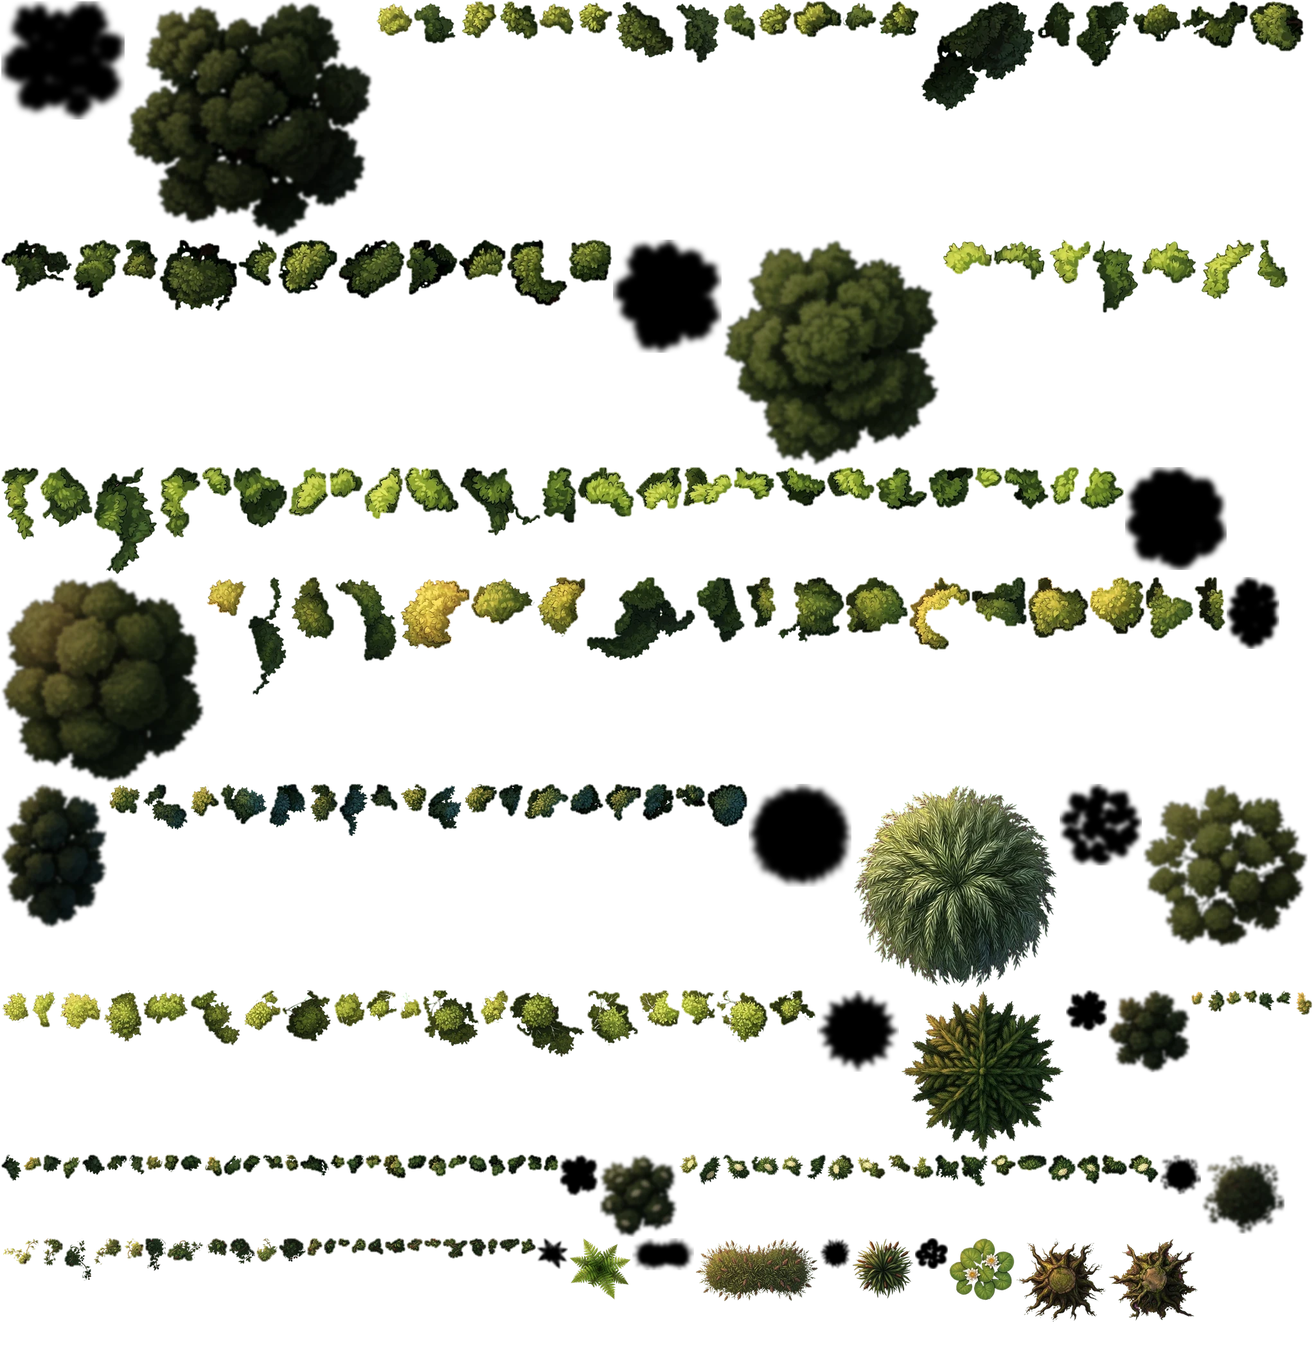
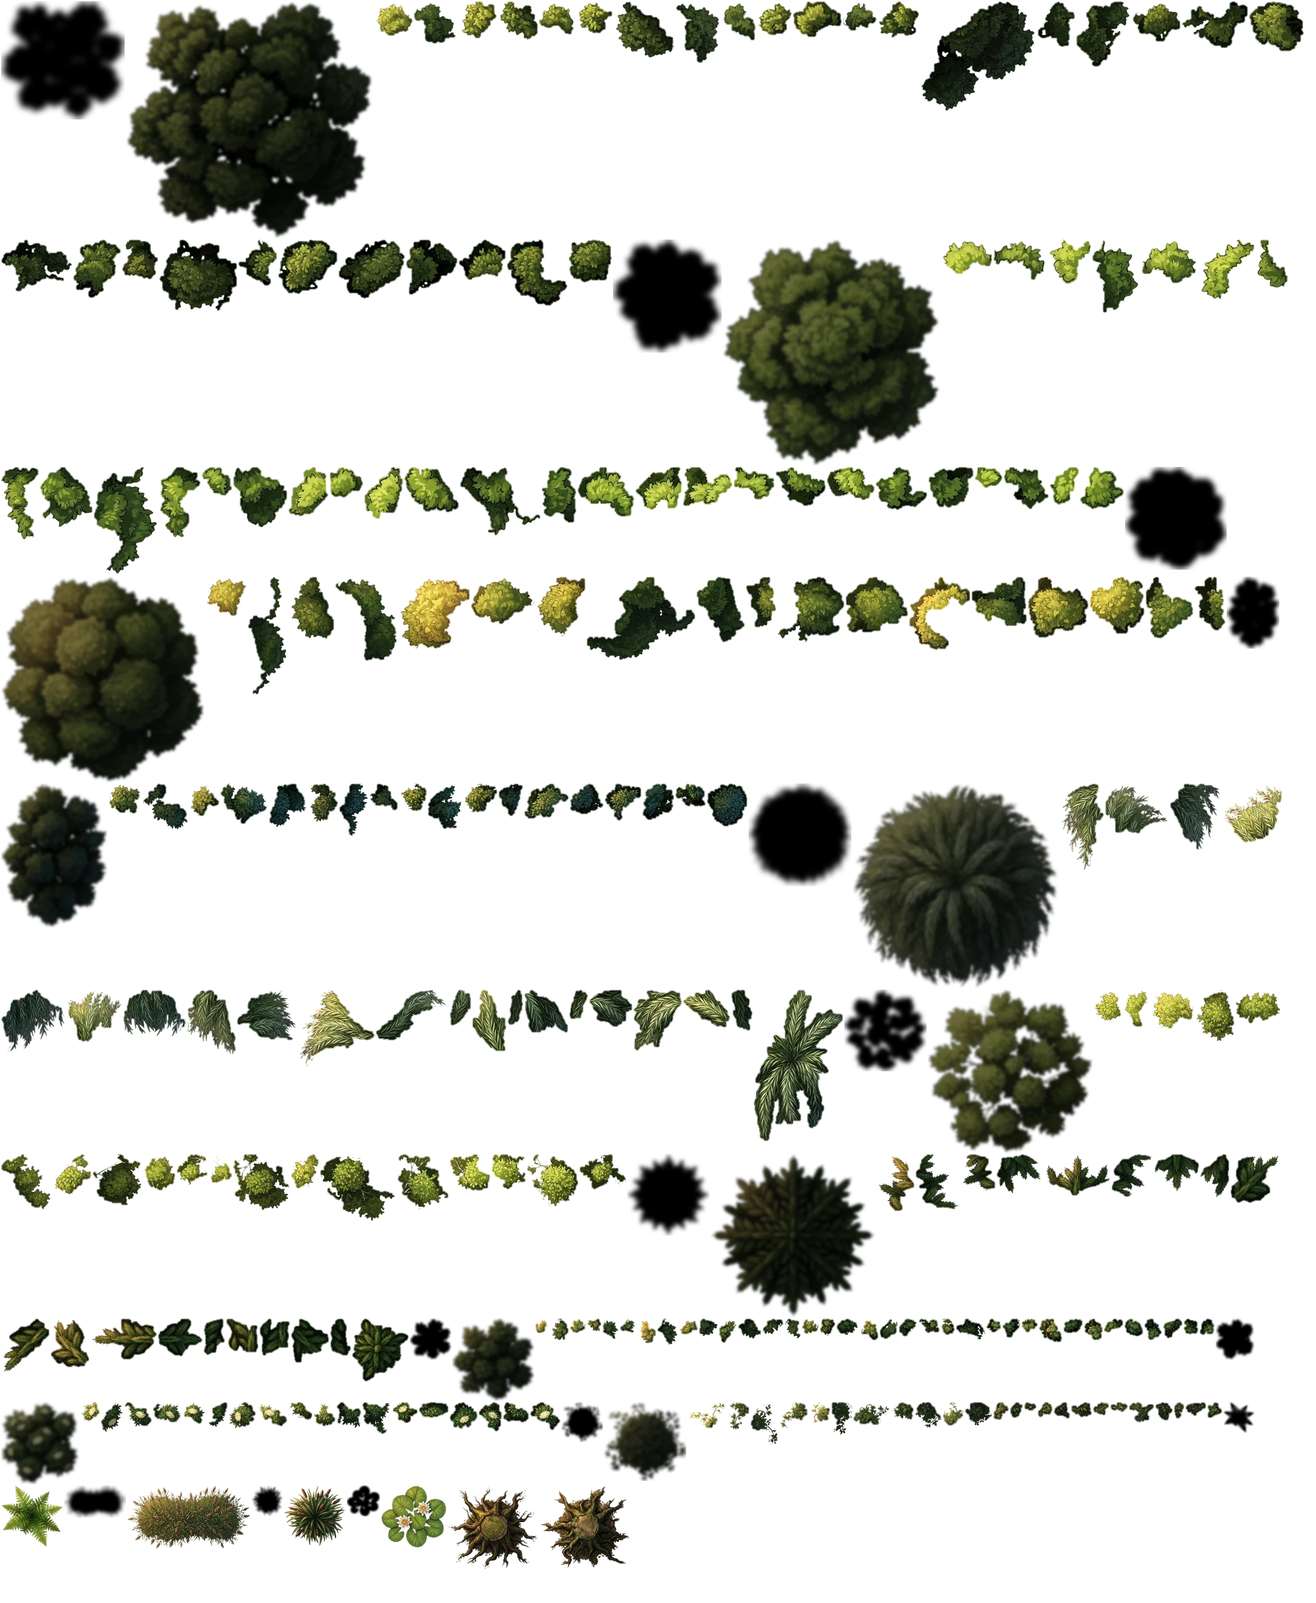
outdoor slice: rapids that visibly run (noise at a visible scale), boulder flecks instead of rings, forest as stands, roof tap, wind dial, all trees cut into clumps

diff --git a/docs/mockups/outdoor/outdoor.js b/docs/mockups/outdoor/outdoor.js
@@ -14,6 +14,7 @@ uniform vec2 u_dir;       // wind direction
 uniform float u_wind;     // base strength (0.45 breeze, 1 strong)
 uniform float u_gusts;    // 1 = gusts roll across the map
 uniform float u_cloud;    // cloud shadow strength 0..1
+uniform vec2 u_cloudOff;  // how far the clouds have drifted (integrated on the CPU)
 uniform sampler2D u_noise;
 float hash1(float n) { return fract(sin(n * 127.1) * 43758.5453); }
 float noise1(float x) { float i = floor(x), f = fract(x), u = f * f * (3.0 - 2.0 * f); return mix(hash1(i), hash1(i + 1.0), u); }
@@ -24,7 +25,7 @@ float windAt(vec2 sq) {
 }
 // big soft cloud shadows drifting with the wind
 float cloud(vec2 sq) {
-  vec2 p = sq / 30.0 - u_dir * u_t * 0.018;
+  vec2 p = sq / 30.0 - u_cloudOff;
   float n = texture(u_noise, p).r * 0.65 + texture(u_noise, p * 2.7 + 0.31).r * 0.35;
   return 1.0 - u_cloud * 0.30 * smoothstep(0.50, 0.70, n);
 }
@@ -45,6 +46,8 @@ void main() { o = vec4(texture(u_ground, v_sq / u_map).rgb * cloud(v_sq), 1.0); 
 const WATER_FS = HEAD + `
 uniform sampler2D u_ground, u_flow, u_flow2; uniform float u_move;
 in vec2 v_sq; out vec4 o;
+// noise in the flow's frame; one tile of the 256² noise = s squares (channel R ~3 blobs a tile,
+// G ~7, B ~16, A ~4 ridges) — too small an s and the mipmaps grey it out: nothing visibly moves
 vec4 tap(vec2 q, vec2 dir, vec2 stretch, float s) {
   vec2 perp = vec2(-dir.y, dir.x);
   return texture(u_noise, vec2(dot(q, dir), dot(q, perp)) * stretch / s);
@@ -56,23 +59,27 @@ void main() {
   vec2 dir = normalize(f.rg * 2.0 - 1.0 + 1e-4); float speed = f.b;
   vec4 f2 = texture(u_flow2, uv); float shallow = f2.r, bank = f2.g, rockfoam = f2.b;
   float t = u_t * u_move;
-  float vel = mix(0.30, 3.2, speed * speed);          // squares a second
-  float cyc = mix(2.2, 0.9, speed);
+  float vel = mix(0.30, 3.0, speed);                  // squares a second
+  float cyc = mix(2.2, 1.3, speed);
   float ph0 = fract(t / cyc), ph1 = fract(t / cyc + 0.5), w1 = abs(ph0 * 2.0 - 1.0);
   vec2 q0 = v_sq - dir * vel * ph0 * cyc, q1 = v_sq - dir * vel * ph1 * cyc + 0.37;
   // ripples: distortion of the bed + glints
   vec4 r0 = tap(q0, dir, vec2(0.7, 1.4), 2.6), r1 = tap(q1, dir, vec2(0.7, 1.4), 2.6);
   vec4 r = mix(r0, r1, w1);
   float still = smoothstep(0.0, 0.35, bank);
-  vec2 disp = (r.gb - 0.5) * (0.05 + 0.10 * speed) * still * (1.0 - 0.5 * shallow);
+  // the painted bed (and its painted white water) wobbles — hard and fast in the rapids
+  vec4 c0 = tap(q0, dir, vec2(0.8, 1.4), 5.0), c1 = tap(q1, dir, vec2(0.8, 1.4), 5.0);   // B blobs ~0.3 sq
+  vec4 chop = mix(c0, c1, w1);                        // small choppy blobs: their travel is what you see move
+  vec2 disp = ((r.gb - 0.5) * (0.05 + 0.06 * speed) + (chop.rg - 0.5) * 0.16 * speed) * still * (1.0 - 0.5 * shallow);
   vec3 bed = texture(u_ground, (v_sq + disp) / u_map).rgb;
   // streaks along the flow (rapids)
-  vec4 s0 = tap(q0, dir, vec2(0.22, 1.9), 1.0), s1 = tap(q1, dir, vec2(0.22, 1.9), 1.0);
+  vec4 s0 = tap(q0, dir, vec2(0.22, 1.9), 6.0), s1 = tap(q1, dir, vec2(0.22, 1.9), 6.0);
   float streak = mix(s0.b, s1.b, w1);
-  float foam = smoothstep(0.52, 0.80, streak) * smoothstep(0.35, 0.9, speed);
-  // foam in the boulders' wakes, carried downstream and breaking up as it goes
-  float boil = mix(tap(q0, dir, vec2(0.45, 1.3), 0.7).g, tap(q1, dir, vec2(0.45, 1.3), 0.7).g, w1);
-  foam = max(foam, 0.85 * smoothstep(0.42, 0.8, rockfoam * (0.25 + boil * 0.95)));
+  float fast = smoothstep(0.3, 0.9, speed);
+  // white water: broken flecks riding the chop (never long smooth streaks — those hide their motion)
+  float foam = fast * max(smoothstep(0.60, 0.80, chop.b) * 0.9, smoothstep(0.62, 0.82, streak) * smoothstep(0.5, 0.8, chop.g) * 0.7);
+  // boulders: flecks thick at the rock, thinning down the wake — always moving, never a solid ring
+  foam = max(foam, smoothstep(0.35, 0.75, chop.a * 0.6 + chop.b * 0.4) * smoothstep(0.05, 0.6, rockfoam) * 0.95);
   // caustics in the shallows: a ridge net drifting slowly
   float cn = mix(tap(q0, dir, vec2(1.0), 1.4).a, tap(q1, dir, vec2(1.0), 1.4).a, w1);
   float caus = pow(1.0 - abs(cn * 2.0 - 1.0), 10.0) * shallow * (1.0 - speed);
@@ -82,7 +89,8 @@ void main() {
   float lap = smoothstep(0.10, 0.0, abs(bank - 0.06 - 0.03 * sin(t * 1.3 + dot(v_sq, vec2(1.7, 2.3))))) * (1.0 - speed);
   vec3 col = bed * (1.0 + 0.28 * caus);
   col += vec3(0.9, 0.95, 1.0) * crest * 0.09 * (1.0 - 0.6 * speed);
-  col = mix(col, vec3(0.93, 0.97, 1.0), clamp(foam * 0.9 + lap * 0.22, 0.0, 1.0));
+  col *= 1.0 - 0.12 * fast * (chop.r - 0.5);         // troughs and crests darken / lighten the run
+  col = mix(col, vec3(0.93, 0.97, 1.0), clamp(foam * 0.85 + lap * 0.22, 0.0, 1.0));
   col *= cloud(v_sq);
   o = vec4(col * mask, mask);
 }`;
@@ -302,14 +310,15 @@ export async function start(canvas, ui) {
   ui.info({ plants: scene.plants.length, quads: nVerts / 6, gpuMB: gpu / 1048576, types: Object.keys(scene.types).length });
 
   const { cols, rows } = scene;
-  let view = [1, 1, 0, 0], W = 0, H = 0;
+  let view = [1, 1, 0, 0], W = 0, H = 0, geo = { left: 0, top: 0, sq: 1 };
   function fit() {
     const dpr = Math.min(devicePixelRatio || 1, 2), w = Math.round(canvas.clientWidth * dpr), h = Math.round(canvas.clientHeight * dpr);
     if (w === W && h === H) return;
     W = canvas.width = w; H = canvas.height = h;
     const s = Math.min(W / cols, H / rows), mw = (cols * s) / W, mh = (rows * s) / H;   // fraction of the canvas
     view = [(2 * mw) / cols, (-2 * mh) / rows, -mw, mh];
-    ui.layout({ left: ((1 - mw) / 2) * canvas.clientWidth, top: ((1 - mh) / 2) * canvas.clientHeight, sq: (s / dpr) });
+    geo = { left: ((1 - mw) / 2) * canvas.clientWidth, top: ((1 - mh) / 2) * canvas.clientHeight, sq: s / dpr };
+    ui.layout(geo);
   }
 
   const common = (p, t) => {
@@ -318,17 +327,28 @@ export async function start(canvas, ui) {
     const s = ui.state, a = s.windAngle;
     gl.uniform2f(p.u("u_dir"), Math.cos(a), Math.sin(a));
     gl.uniform1f(p.u("u_wind"), s["Strong wind"] ? 1.0 : 0.45); gl.uniform1f(p.u("u_gusts"), s.Gusts ? 1 : 0);
-    gl.uniform1f(p.u("u_cloud"), s.Clouds ? 1 : 0);
+    gl.uniform1f(p.u("u_cloud"), s.Clouds ? 1 : 0); gl.uniform2f(p.u("u_cloudOff"), cloudOff[0], cloudOff[1]);
     gl.activeTexture(gl.TEXTURE3); gl.bindTexture(gl.TEXTURE_2D, T.noise); gl.uniform1i(p.u("u_noise"), 3);
   };
   const bind = (p, name, unit, tex) => { gl.activeTexture(gl.TEXTURE0 + unit); gl.bindTexture(gl.TEXTURE_2D, tex); gl.uniform1i(p.u(name), unit); };
 
   const t0 = performance.now();
   let last = t0;
+  const cloudOff = [0, 0];
+  // a tap on a house opens or closes its roof (the DM's hand); a party token inside opens it too
+  canvas.addEventListener("click", (e) => {
+    const r = canvas.getBoundingClientRect(), x = (e.clientX - r.left - geo.left) / geo.sq, y = (e.clientY - r.top - geo.top) / geo.sq;
+    for (const roof of roofs) {
+      const [fx, fy, fw, fh] = roof.footprint;
+      if (x > fx - 0.3 && x < fx + fw + 0.3 && y > fy - 0.3 && y < fy + fh + 0.3) roof.open = !roof.open;
+    }
+  });
   function frame(now) {
     fit();
     const t = (now - t0) / 1000, dt = Math.min(0.1, (now - last) / 1000); last = now;
     const s = ui.state, party = ui.party();
+    const cs = (s["Strong wind"] ? 0.05 : 0.022) * dt;   // clouds drift with the wind (in units of 30 squares)
+    cloudOff[0] += Math.cos(s.windAngle) * cs; cloudOff[1] += Math.sin(s.windAngle) * cs;
     gl.viewport(0, 0, W, H); gl.clearColor(0.07, 0.07, 0.08, 1); gl.clear(gl.COLOR_BUFFER_BIT);
     gl.disable(gl.BLEND);
     common(P.ground, t); bind(P.ground, "u_ground", 0, T.ground);
@@ -344,12 +364,12 @@ export async function start(canvas, ui) {
       gl.uniform2f(P.veg.u("u_sun"), 0.22, 0.30);
       const flat = new Float32Array(16); party.slice(0, 8).forEach(([x, y], i) => { flat[i * 2] = x; flat[i * 2 + 1] = y; });
       gl.uniform2fv(P.veg.u("u_party"), flat); gl.uniform1i(P.veg.u("u_nparty"), Math.min(8, party.length));
-      gl.uniform1f(P.veg.u("u_lift"), s["Lift canopy"] ? 1 : 0);
+      gl.uniform1f(P.veg.u("u_lift"), s["Canopy opens"] ? 1 : 0);
       gl.bindVertexArray(V.veg); gl.drawArrays(gl.TRIANGLES, 0, nVerts);
     }
     for (const r of roofs) {
       const [fx, fy, fw, fh] = r.footprint;
-      const inside = s["Lift roofs"] && party.some(([x, y]) => x > fx && x < fx + fw && y > fy && y < fy + fh);
+      const inside = r.open || (s["Roof opens"] && party.some(([x, y]) => x > fx && x < fx + fw && y > fy && y < fy + fh));
       r.alpha += ((inside ? 0 : 1) - r.alpha) * Math.min(1, dt * 6);
       if (r.alpha < 0.01) continue;
       const box = [(r.x / r.px[0]) * cols, (r.y / r.px[1]) * rows, (r.w / r.px[0]) * cols, (r.h / r.px[1]) * rows];

diff --git a/docs/mockups/outdoor/riverbend.html b/docs/mockups/outdoor/riverbend.html
@@ -24,6 +24,12 @@
   .bar .arrow { display: inline-grid; place-items: center; width: 24px; height: 22px; background: #000a; border-radius: 6px; color: #fff; font-size: 15px }
   .tok { position: absolute; z-index: 1; border-radius: 50%; border: 3px solid #fff; box-shadow: 0 2px 6px #000c; cursor: grab; touch-action: none;
          display: grid; place-items: center; font: 700 12px system-ui; color: #fff; transform: translate(-50%, -50%) }
+  .dial { position: absolute; z-index: 2; right: 14px; bottom: 120px; width: 96px; height: 96px; touch-action: none; cursor: grab; user-select: none }
+  .dial svg { width: 100%; height: 100%; display: block }
+  .dial .ring { fill: #000b; stroke: #fff6; stroke-width: 2 }
+  .dial .aim { stroke: #f5c542; stroke-width: 3; stroke-dasharray: 4 4 }
+  .dial .now line { stroke: #fff; stroke-width: 4; stroke-linecap: round } .dial .now path { fill: #fff }
+  .dial span { position: absolute; left: 0; right: 0; bottom: -16px; text-align: center; font: 11px system-ui; color: #ccc }
   .grid { position: absolute; z-index: 1; pointer-events: none; background-image: linear-gradient(#0003 1px, transparent 1px), linear-gradient(90deg, #0003 1px, transparent 1px) }
 </style>
 <canvas class="stage"></canvas>
@@ -32,7 +38,7 @@
   river, every plant and the roof are drawn on top. Water: a flow map from our layout over the painted riverbed — slow
   and glinting where calm, white streaks and boiling foam in the rapids, light nets over the ford. Plants: one atlas,
   one draw call, wind in the vertex shader (gusts roll across the map). Drag the party: crowns open around them, the
-  roof lifts when one steps inside.</div>
+  roof lifts when one steps inside — or tap the roof. Hold the wind dial and drag to turn the wind.</div>
 <script type="module">
 // fpsMeter and toggles as in ../effects/fx.js (inlined: a board embed serves only this folder)
 function fpsMeter(el) {
@@ -49,14 +55,28 @@ function toggles(bar, names, state, onChange) {
 import { start } from "./outdoor.js";
 
 fpsMeter(document.getElementById("fps"));
-const state = { Water: true, Plants: true, Clouds: true, Gusts: true, "Strong wind": false, "Lift canopy": true, "Lift roofs": true, Grid: false, windAngle: 0.35 };
+const state = { Water: true, Plants: true, Clouds: true, Gusts: true, "Strong wind": false, "Canopy opens": true, "Roof opens": true, Grid: false, windAngle: 0.35 };
 const bar = document.getElementById("bar");
-toggles(bar, ["Water", "Plants", "Clouds", "Gusts", "Strong wind", "Lift canopy", "Lift roofs", "Grid"], state, () => grid.style.display = state.Grid ? "block" : "none");
-const turn = document.createElement("button"); turn.textContent = "Turn wind";
-const arrow = document.createElement("span"); arrow.className = "arrow"; arrow.textContent = "→";
-const showArrow = () => (arrow.style.transform = `rotate(${state.windAngle}rad)`);
-turn.onclick = () => { state.windAngle += Math.PI / 2; showArrow(); }; showArrow();
-bar.append(turn, arrow);
+toggles(bar, ["Water", "Plants", "Clouds", "Gusts", "Strong wind", "Canopy opens", "Roof opens", "Grid"], state, () => grid.style.display = state.Grid ? "block" : "none");
+
+// the wind dial: hold and drag around it; the wind itself turns after your hand (~1 s behind),
+// so you watch the trees, reeds and clouds swing round. Gold = where you point, white = the wind now.
+const dial = document.createElement("div"); dial.className = "dial"; dial.title = "Hold and drag to turn the wind";
+dial.innerHTML = `<svg viewBox="-50 -50 100 100"><circle r="46" class="ring"/><line class="aim" x1="0" y1="0" x2="38" y2="0"/><g class="now"><line x1="-30" y1="0" x2="30" y2="0"/><path d="M38 0 L24 -9 L24 9 Z"/></g></svg><span>wind</span>`;
+document.body.append(dial);
+let aim = state.windAngle;
+const turnTo = (e) => { const r = dial.getBoundingClientRect(); aim = Math.atan2(e.clientY - r.top - r.height / 2, e.clientX - r.left - r.width / 2); };
+dial.onpointerdown = (e) => { dial.setPointerCapture(e.pointerId); turnTo(e); dial.onpointermove = turnTo; };
+dial.onpointerup = () => (dial.onpointermove = null);
+let lastT = performance.now();
+(function ease(now) {
+  const dt = Math.min(0.1, (now - lastT) / 1000); lastT = now;
+  const d = Math.atan2(Math.sin(aim - state.windAngle), Math.cos(aim - state.windAngle));
+  state.windAngle += d * Math.min(1, dt * 1.6);
+  dial.querySelector(".aim").setAttribute("transform", `rotate(${(aim * 180) / Math.PI})`);
+  dial.querySelector(".now").setAttribute("transform", `rotate(${(state.windAngle * 180) / Math.PI})`);
+  requestAnimationFrame(ease);
+})(lastT);
 
 // the party: four tokens in squares, dragged on the page
 const party = [[11.3, 1.6, "#d33"], [12.6, 2.4, "#36c"], [11.2, 3.3, "#3a3"], [12.7, 0.8, "#c90"]];

diff --git a/docs/mockups/outdoor/prepare.py b/docs/mockups/outdoor/prepare.py
@@ -29,6 +29,11 @@ REPO = HERE.parents[2]
 sys.path.insert(0, str(REPO / "tools" / "mapgen"))
 import mapgen  # noqa: E402
 import outdoor  # noqa: E402
+import importlib.util  # noqa: E402
+_spec = importlib.util.spec_from_file_location("tree_prepare", HERE.parent / "effects" / "trees" / "prepare.py")
+_trees = importlib.util.module_from_spec(_spec)
+_spec.loader.exec_module(_trees)
+flood = _trees.flood  # the marker watershed of the tree demos
 
 RUN = REPO / "tools/mapgen/out/riverbend/261026-001219-ground"
 ATLAS_W = 2048
@@ -37,7 +42,8 @@ PPS = 64            # atlas pixels per square: the TV draws ~56 at 1080p, so mor
 SHADOW_SCALE = 0.5  # shadows are blurred anyway
 MESH = {"bush": 5, "reed": 8, "lily": 3, "fern": 5, "willow": 8, "spruce": 6, "tree": 6}
 
-rng = random.Random(7)
+rng = random.Random(7)          # placement
+seeds = random.Random(11)      # clump phases: separate, so recutting a tree never moves the forest
 
 
 # ---------------------------------------------------------------- atlas pieces
@@ -66,9 +72,42 @@ def clump_pieces(still, labels):
         rx, ry = (px - cx) / R, (py - cy) / R
         out.append({"img": Image.fromarray(piece, "RGBA"), "x0": int(x0), "y0": int(y0),
                     "pivot": [round(px - rx * R * 0.18, 1), round(py - ry * R * 0.18, 1)],
-                    "r": round(min(1, math.hypot(rx, ry)), 3), "seed": round(rng.random(), 3)})
+                    "r": round(min(1, math.hypot(rx, ry)), 3), "seed": round(seeds.random(), 3)})
     out.sort(key=lambda p: -p["r"])
     return out
+
+
+def branch_pieces(still, arms=10):
+    """Label map for crowns without round clumps (willow fronds, spruce tiers): seeds on two rings
+    of `arms` spokes (outer ring turned half a spoke), a watershed along the painting's dark gaps
+    between needles and fronds, a core disc. Same output as the clump cutter: one grey per piece."""
+    A = np.asarray(still, float) / 255
+    alpha, lum = A[..., 3], A[..., :3] @ [0.3, 0.59, 0.11]
+    H, W = alpha.shape
+    cy, cx = ndi.center_of_mass(alpha)
+    R = max(W, H) / 2
+    markers = np.zeros((H, W), int)
+    k = 1
+    yy, xx = np.mgrid[0:H, 0:W]
+    markers[np.hypot(xx - cx, yy - cy) < R * 0.14] = k
+    for ring, (rad, turn) in enumerate(((0.42, 0.0), (0.74, 0.5))):
+        for i in range(arms):
+            a = 2 * math.pi * (i + turn) / arms
+            x, y = int(cx + math.cos(a) * rad * R), int(cy + math.sin(a) * rad * R)
+            if 0 <= x < W and 0 <= y < H and alpha[y, x] > 0.5:
+                k += 1
+                markers[max(0, y - 2):y + 3, max(0, x - 2):x + 3] = k
+    fill = np.where(alpha > 0.5, lum, lum[alpha > 0.5].mean())
+    fine = ndi.gaussian_filter(fill, 1.5) - ndi.gaussian_filter(fill, max(W, H) / 13)
+    crevice = np.clip(0.5 - fine * 2.4, 0, 1)
+    near = np.minimum(ndi.distance_transform_edt(markers == 0) / (R * 0.45), 1)
+    cost = np.clip(255 * (0.45 * crevice + 0.55 * near), 0, 255).astype(np.uint8)
+    lab = flood(cost, markers, alpha > 0.05)
+    lab[alpha < 0.05] = 0
+    return Image.fromarray(lab.astype(np.uint8), "L")
+
+
+BRANCHY = {"willow", "spruce"}   # trees cut into radial branch pieces instead of leaf clumps
 
 
 def under_copy(still):
@@ -125,8 +164,9 @@ def build_types(veg, atlas):
         if kind != "trunk":
             sh = shadow_of(still)
             t["shadow"] = atlas.add(sh.resize((round(sh.width * SHADOW_SCALE), round(sh.height * SHADOW_SCALE)), Image.LANCZOS))
-        if v.get("parts"):
-            labels = Image.open(HERE / "veg" / v["parts"]["file"]).resize(size, Image.NEAREST)
+        if v.get("parts") or v["name"] in BRANCHY:
+            labels = (Image.open(HERE / "veg" / v["parts"]["file"]).resize(size, Image.NEAREST)
+                      if v.get("parts") else branch_pieces(still))
             t["under"] = atlas.add(under_copy(still))
             t["clumps"] = []
             for p in clump_pieces(still, labels):
@@ -214,14 +254,15 @@ def scatter(spec, types):
             return None
         if g.blocked(x, y, 1.0):
             return None
-        near_water = g.at(g.to_water, x, y) < 3.0
-        pool = have("alder", "alder", "willow", "beech") if near_water else have("oak", "beech", "linden", "birch", "oak", "beech", "spruce")
-        return rng.choice(pool) if pool else None
+        # a real wood is a stand of one or two species; alders line the water
+        stand = spec["river"].get("bank_trees") if g.at(g.to_water, x, y) < 2.5 else z.get("stand")
+        stand = {k: v for k, v in (stand or {"oak": 1}).items() if k in types}
+        return rng.choices(list(stand), weights=list(stand.values()))[0] if stand else None
 
     size = lambda name: types[name]["squares"] * 0.62 if name in types else 3
     plants += poisson(4000, tree_ok, size, plants, (-1.5, -1.5, cols + 1.5, rows + 1.5))
-    # one old lime on the meadow and a willow on the calm south bank
-    for name, x, y in (("linden", 27.5, 17.0), ("willow", 1.2, 10.4)):
+    # one old lime alone on the meadow
+    for name, x, y in (("linden", 27.5, 17.0),):
         if name in types:
             plants.append({"type": name, "x": x, "y": y, "layer": "tree"})
 
@@ -242,7 +283,7 @@ def scatter(spec, types):
                 plants.append({"type": "fern", "x": round(x, 2), "y": round(y, 2), "layer": "low"})
 
     # bushes along the forest edge and around the cottage garden
-    bushes = have("hazel", "elder", "bramble")
+    bushes = have("hazel", "hazel", "hazel", "elder", "elder", "bramble")
     for _ in range(1500):
         x, y = rng.uniform(0, cols), rng.uniform(0, rows)
         z = g.zone(x, y)
@@ -280,7 +321,8 @@ def scatter(spec, types):
     for p in plants:
         p.setdefault("rot", round(rng.uniform(-15, 15), 1))
         p["scale"] = p.pop("size", None) or round(rng.uniform(0.85, 1.15), 2)
-        p["tint"] = [round(rng.uniform(0.94, 1.06), 3), round(rng.uniform(0.95, 1.05), 3), round(rng.uniform(0.94, 1.04), 3)]
+        v = rng.uniform(0.96, 1.04)   # brightness only: hue shifts made the wood look patchy
+        p["tint"] = [round(v, 3)] * 3
     order = {"lily": 0, "reed": 1, "trunk": 2, "low": 3, "bush": 4, "tree": 5}
     plants.sort(key=lambda p: (order[p["layer"]], types[p["type"]]["squares"] * p["scale"] if p["layer"] == "tree" else p["y"]))
     return plants

diff --git a/docs/ai-art.md b/docs/ai-art.md
@@ -539,6 +539,28 @@ square (the TV draws ~56), shadows at half that: 2048 × 2112, 16.5 MB GPU, 644 
 slice holds 93 plants as 3,121 quads in one draw call. The slice page shows the 2K ground
 (22 MB with mipmaps); a TV copy at 56 px per square is 8 MB.
 
+**Konrad's first look (2026-10-26) and the fixes:**
+
+- *The rapids didn't move, the calm water did; white rings round the boulders.* The rapids' noise
+  was sampled at a scale finer than a pixel, so the mipmaps greyed it out — nothing visible was
+  left to travel. Now small choppy blobs (~0.3 squares) ride the flow at 3 squares a second and
+  wobble the painted white water; boulder foam is flecks that thin down the wake, not a solid
+  collar. Measured on two frames 150 ms apart: the rapids now change ~10 grey levels a pixel,
+  the calm water ~6 (before: 1.8 vs 6). Rule: a long smooth streak moving along itself looks
+  still — fast water needs features shorter than their travel.
+- *Too many kinds of plants, it didn't look real.* A real wood is a stand: each forest zone now
+  has a stand mix in the layout (`"stand": {"beech": 0.75, "oak": 0.25}`), alders line the water
+  (`river.bank_trees`), one old lime stands alone on the meadow; no spruce, birch or willow mixed
+  in; hazel and elder at the edges; brightness-only tint (hue jitter made it patchy).
+- *Roof lifting did nothing.* It lifted only when a token stood inside; a tap on the roof now
+  opens or closes it too (in horizon the page must be entered first).
+- *Turning the wind jumped.* A dial you hold and drag; the wind follows your hand about a second
+  behind (gold = where you point, white = the wind now), and the clouds' drift is integrated so
+  a turn doesn't throw them across the map.
+- Willow and spruce are now cut too (radial branch pieces along their painted gaps,
+  `branch_pieces`), so every tree sways by the clump method; only bushes too small to cut,
+  ferns, reeds and cattails bend as meshes.
+
 **Built:** `tools/mapgen/outdoor.py` (`guide`, `paint`, `roof`), `prompts/outdoor.txt`,
 `prompts/edit-roof.txt`; the slice page `docs/mockups/outdoor/riverbend.html` (`outdoor.js`,
 `prepare.py` → `scene.json`). Run `261026-001219-ground`: 2 draws at 2K ($0.10) — both kept river,
